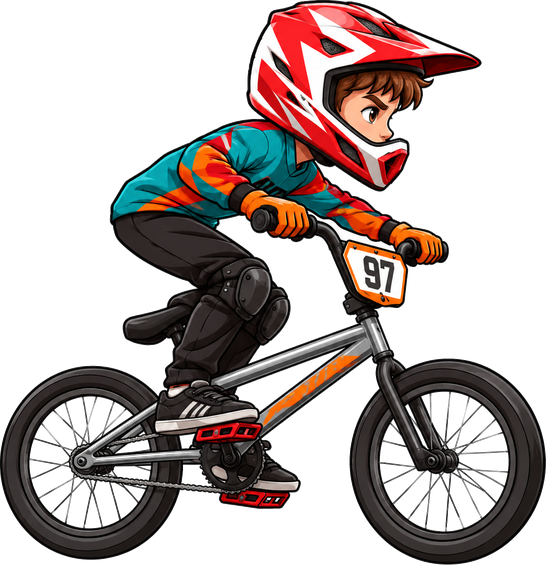
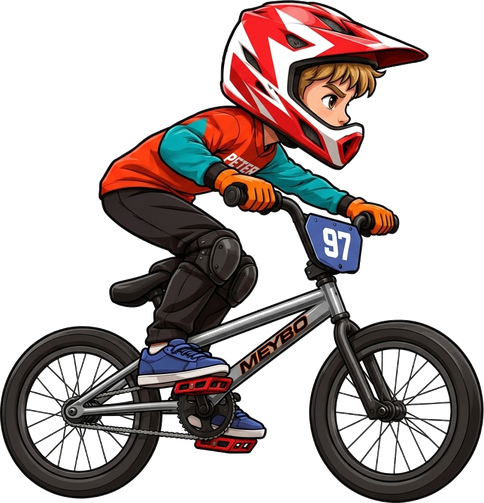
Add files via upload

diff --git a/index.html b/index.html
@@ -34,6 +34,9 @@
   .btn:active { transform: translateY(3px); box-shadow: 0 3px 0 #a83f12; }
   .btn.ghost { background: transparent; box-shadow: none; font-size: 16px; color: #bfeee9; text-decoration: underline; padding: 6px; }
   #calib { font-size: clamp(20px, 5.5vh, 30px); font-weight: bold; color: #ffe14d; min-height: 1.3em; }
+  #sens { font-size: 14px; color: #cfeee9; display: flex; gap: 8px; align-items: center; text-shadow: 0 2px 4px rgba(0,0,0,.6); }
+  #sens button { font: bold 14px Arial; color: #fff; background: rgba(255,255,255,.14); border: 2px solid rgba(255,255,255,.35); border-radius: 18px; padding: 5px 14px; }
+  #sens button.on { background: #ff6b2c; border-color: #fff; }
   #bar { width: min(420px, 70vw); height: 14px; background: #0c2c2b; border-radius: 9px; overflow: hidden; display: none; }
   #bar i { display: block; height: 100%; width: 50%; background: #ffe14d; }
 </style>
@@ -48,6 +51,7 @@
   <div id="bar"><i></i></div>
   <button class="btn" id="go">ПОЕХАЛИ!</button>
   <button class="btn ghost" id="skip">без наклона, только кнопки</button>
+  <div id="sens">Чувствительность наклона: <button data-s="0.7">мягко</button><button data-s="1" class="on">норм</button><button data-s="1.4">резко</button></div>
 </div>
 <script src="https://cdnjs.cloudflare.com/ajax/libs/phaser/3.80.1/phaser.min.js"></script>
 <script>
@@ -141,6 +145,7 @@ const Sfx = {
       s.connect(g); g.connect(c.destination); s.start();
     } catch (e) { /* без звука */ }
   },
+  click() { this.tone(760, 0.03, 'square', 0.035); },
   pedal(c) { this.tone(260 + c * 380, 0.05, 'triangle', 0.07); },
   land() { this.noise(0.12, 0.12); this.tone(110, 0.12, 'sine', 0.15, 60); },
   flip() { [520, 660, 780, 1040].forEach((f, i) => setTimeout(() => this.tone(f, 0.16, 'square', 0.06), i * 70)); },
@@ -153,7 +158,7 @@ const Sfx = {
 // ======================= НАКЛОН ТЕЛЕФОНА =======================
 // Крен вокруг оси экрана считаем по направлению силы тяжести; знак определяет калибровка («наклони вправо»).
 const Tilt = {
-  on: false, raw: 0, prev: null, smooth: undefined, sign: 1, base: 0,
+  on: false, raw: 0, prev: null, smooth: undefined, sign: 1, base: 0, sens: 1,
   handler(e) {
     const a = e.accelerationIncludingGravity;
     if (!a || a.x == null || a.y == null) return;
@@ -279,6 +284,7 @@ class RaceScene extends Phaser.Scene {
     this.load.image('ground', 'ground.png');
     this.load.image('wood', 'wood.jpg');
     this.load.image('conc', 'conc.jpg');
+    ['tires', 'log', 'sign', 'fence', 'bush', 'stump', 'rocks', 'flags'].forEach(n => this.load.image('prop_' + n, 'prop_' + n + '.png'));
   }
 
   create() {
@@ -293,6 +299,7 @@ class RaceScene extends Phaser.Scene {
     this.parts = [];
     this.buildBackground();
     this.buildTerrain();
+    this.buildProps();
     this.buildBike();
     this.buildHud();
 
@@ -316,11 +323,18 @@ class RaceScene extends Phaser.Scene {
   setupInput() {
     const brakeC = { x: W - 222, y: H - 62 }, fwdC = { x: 222, y: H - 62 };
     const hit = (x, y) => {
+      if (y < 118 && Math.abs(x - W / 2) < 70 && Tilt.on) return 'RC';       // тап по шкале наклона: выровнять ноль
       if (x >= W / 2) return Math.hypot(x - brakeC.x, y - brakeC.y) < 70 ? 'BR' : 'GAS';
       return Math.hypot(x - fwdC.x, y - fwdC.y) < 70 ? 'LF' : 'LB';
     };
-    this.input.on('pointerdown', p => { Sfx.init(); this.ctl.held[p.id] = hit(p.x, p.y); });
-    this.input.on('pointermove', p => { if (p.isDown && this.ctl.held[p.id] !== undefined) this.ctl.held[p.id] = hit(p.x, p.y); });
+    this.flash = { GAS: 0, BR: 0, LB: 0, LF: 0, RC: 0 };
+    const feel = n => { this.flash[n] = 1; Sfx.click(); try { if (navigator.vibrate) navigator.vibrate(n === 'GAS' ? 14 : 9); } catch (e) { /* нет вибрации */ } };
+    this.input.on('pointerdown', p => {
+      Sfx.init(); const n = hit(p.x, p.y);
+      if (n === 'RC') { this.neutral = Tilt.val(); feel('RC'); return; }
+      this.ctl.held[p.id] = n; feel(n);
+    });
+    this.input.on('pointermove', p => { if (p.isDown && this.ctl.held[p.id] !== undefined) { const n = hit(p.x, p.y); if (n !== 'RC' && n !== this.ctl.held[p.id]) { this.ctl.held[p.id] = n; feel(n); } } });
     this.input.on('pointerup', p => { delete this.ctl.held[p.id]; });
     this.input.on('pointerupoutside', p => { delete this.ctl.held[p.id]; });
     const kb = this.input.keyboard, set = (names, key, v) => names.forEach(n => kb.on((v ? 'keydown-' : 'keyup-') + n, () => { Sfx.init(); this.ctl[key] = v; }));
@@ -334,8 +348,8 @@ class RaceScene extends Phaser.Scene {
     if (c.lb || this.held('LB')) lean -= 1;
     if (c.lf || this.held('LF')) lean += 1;
     if (lean === 0 && Tilt.on) {
-      const eff = Tilt.val() - this.neutral, dz = 6;
-      if (Math.abs(eff) > dz) lean = Phaser.Math.Clamp((Math.abs(eff) - dz) / 20, 0, 1) * Math.sign(eff);
+      const eff = Tilt.val() - this.neutral, dz = 2.5, full = 16 / Tilt.sens;
+      if (Math.abs(eff) > dz) lean = Math.pow(Phaser.Math.Clamp((Math.abs(eff) - dz) / (full - dz), 0, 1), 1.15) * Math.sign(eff);
     }
     return { gas: !!(c.gas || this.held('GAS')), brake: !!(c.brake || this.held('BR')), lean };
   }
@@ -349,6 +363,11 @@ class RaceScene extends Phaser.Scene {
     // лёгкое затемнение к низу, чтобы земля и байк читались
     const sh = this.add.graphics().setScrollFactor(0).setDepth(-99);
     for (let i = 0; i < 12; i++) { sh.fillStyle(0x1a2a14, 0.012 * i); sh.fillRect(0, H * 0.55 + i * (H * 0.45 / 12), W, H * 0.45 / 12 + 1); }
+    // мягкая виньетка по краям экрана и тёплый свет сверху справа
+    const vg = this.add.graphics().setScrollFactor(0).setDepth(44);
+    for (let i = 0; i < 14; i++) { const k = i / 13; vg.lineStyle(30, 0x08140f, 0.016 + 0.022 * k); vg.strokeEllipse(W / 2, H / 2, W * (0.98 + k * 0.6), H * (1.0 + k * 0.7)); }
+    const sun = this.add.graphics().setScrollFactor(0).setDepth(43).setBlendMode(Phaser.BlendModes.ADD);
+    for (let r = 300; r > 40; r -= 26) { sun.fillStyle(0xffd9a0, 0.012); sun.fillCircle(W - 60, -30, r); }
   }
   updateBg() {
     const cam = this.cameras.main;
@@ -375,6 +394,23 @@ class RaceScene extends Phaser.Scene {
       g.fillStyle(c3, 1); g.fillCircle(cx + 3, cy + 6, r * 1.02); g.fillCircle(cx - h * 0.2 + 3, cy + h * 0.2 + 6, r * 0.75); g.fillCircle(cx + h * 0.2 + 3, cy + h * 0.2 + 6, r * 0.75);
       g.fillStyle(rnd() > 0.5 ? c1 : c2, 1); g.fillCircle(cx, cy, r); g.fillCircle(cx - h * 0.2, cy + h * 0.2, r * 0.75); g.fillCircle(cx + h * 0.2, cy + h * 0.2, r * 0.75);
       g.fillStyle(0xffffff, 0.12); g.fillCircle(cx - r * 0.3, cy - r * 0.35, r * 0.45);
+    }
+  }
+
+  // ---------- предметы вдоль трассы (нарисованные) ----------
+  buildProps() {
+    const H_ = { tires: 46, log: 36, sign: 80, fence: 46, bush: 70, stump: 40, rocks: 44, flags: 130 };
+    const kinds = ['bush', 'tires', 'log', 'fence', 'rocks', 'sign', 'stump', 'bush', 'flags', 'tires', 'fence', 'log'];
+    const bad = x => LEVEL.wood.concat(LEVEL.concrete).some(r => x > r[0] - 90 && x < r[1] + 90) || LEVEL.checkpoints.some(c => Math.abs(x - c) < 110) || Math.abs(x - LEVEL.startX) < 180 || (x > LEVEL.finishX - 120 && x < LEVEL.finishX + 280);
+    let sd = 7; const rnd = () => { sd = (sd * 16807) % 2147483647; return sd / 2147483647; };
+    let i = 0;
+    for (let x = 260; x < LEVEL.finishX + 600; x += 170 + rnd() * 210) {
+      if (bad(x)) continue;
+      const k = kinds[(i++ + ((rnd() * 4) | 0)) % kinds.length], t = this.textures.get('prop_' + k).getSourceImage();
+      const h = H_[k] * (0.85 + rnd() * 0.3), sc = h / t.height, y = groundY(x);
+      const im = this.add.image(x, y + 8, 'prop_' + k).setOrigin(0.5, 1).setScale(sc).setDepth(0.5);
+      if (k !== 'flags' && k !== 'sign') im.setRotation(slopeAt(x) * 0.7);
+      if (rnd() > 0.5) im.setFlipX(true);
     }
   }
 
@@ -441,10 +477,10 @@ class RaceScene extends Phaser.Scene {
     this.trail = this.add.graphics().setDepth(3);
     this.trailPts = [];
     // нарисованный байк: рама с гонщиком + два вращающихся колеса (ступицы совпадают с шарнирами физики)
-    const K = (2 * HALF_BASE) / 362.5, WS = (2 * WHEEL_R + 1.5) / 256;
+    const K = (2 * HALF_BASE) / 259, WS = (2 * WHEEL_R + 1.5) / 256;
     this.wheelR = this.add.image(0, 0, 'wheel').setScale(WS).setDepth(5);
     this.wheelF = this.add.image(0, 0, 'wheel').setScale(WS).setDepth(5);
-    this.riderI = this.add.image(-HALF_BASE, 0, 'rider').setOrigin(17 / 420, 461 / 509).setScale(K);
+    this.riderI = this.add.image(-HALF_BASE, 0, 'rider').setOrigin(9 / 307, 342 / 378).setScale(K);
     this.bikeC = this.add.container(0, 0, [this.riderI]).setDepth(5.5);
   }
   anchor() {
@@ -526,7 +562,7 @@ class RaceScene extends Phaser.Scene {
     if (this.state === 'done' || this.state === 'wait') return;
     const inp = this.readInput();
     if (this.state === 'ready') {
-      if (inp.gas) { this.state = 'run'; this.msg.setAlpha(0); } else return;
+      if (inp.gas) { this.state = 'run'; this.msg.setAlpha(0); this.neutral = Tilt.on ? Tilt.val() : 0; } else return;
     }
     const near = w => groundY(w.position.x) - w.position.y <= WHEEL_R / Math.cos(slopeAt(w.position.x)) + 4;
     const tR = near(wr), tF = near(wf), touching = tR || tF;
@@ -536,7 +572,6 @@ class RaceScene extends Phaser.Scene {
     const sp0 = Math.hypot(b.velocity.x, b.velocity.y);
 
     if (this.state === 'crash') { this.crashTimer -= STEP; if (this.crashTimer <= 0) this.respawn(); return; }
-    if (Tilt.on && !air) this.neutral += (Tilt.val() - this.neutral) * 0.02;
     this.boost *= 0.994; this.comboT = Math.max(0, this.comboT - STEP / 1000);
     if (this.comboT === 0) this.combo = 0;
 
@@ -544,7 +579,7 @@ class RaceScene extends Phaser.Scene {
       // ---- газ и тормоз ----
       const maxW = (BASE_CAP + this.boost) / WHEEL_R;
       if (inp.gas) {
-        if (wr.angularVelocity < maxW) Body.setAngularVelocity(wr, Math.min(maxW, wr.angularVelocity + 0.014));
+        if (wr.angularVelocity < maxW) Body.setAngularVelocity(wr, Math.min(maxW, wr.angularVelocity + 0.026));
         if (tR) this.setPitch(b.angularVelocity - 0.0012);
       }
       if (inp.brake) {
@@ -651,9 +686,9 @@ class RaceScene extends Phaser.Scene {
 
   // гонщик на байке, стоит на месте (для пьедестала): контейнер, начало координат внизу по центру
   riderSprite(x, y, sc) {
-    const WSZ = 198 / 256;
-    const w1 = this.add.image(-193, -99, 'wheel').setScale(WSZ), w2 = this.add.image(169.5, -99, 'wheel').setScale(WSZ);
-    const r = this.add.image(0, -560, 'rider').setOrigin(0.5, 0);
+    const WSZ = 141 / 256;
+    const w1 = this.add.image(-144.5, -70.5, 'wheel').setScale(WSZ), w2 = this.add.image(114.5, -70.5, 'wheel').setScale(WSZ);
+    const r = this.add.image(0, -412.5, 'rider').setOrigin(0.5, 0);
     return this.add.container(x, y, [w1, w2, r]).setScale(sc);
   }
 
@@ -676,7 +711,7 @@ class RaceScene extends Phaser.Scene {
     root.add([dim, panel, g]);
     blocks.forEach(b => root.add(this.add.text(b.x, base - b.h / 2 + 4, b.n, st(38, '#3a2a10')).setOrigin(0.5)));
     const rx = medal >= 0 ? blocks.find(k => k.m === medal).x : px + bw + 4, ry = medal >= 0 ? base - blocks.find(k => k.m === medal).h : base - 44;
-    root.add(this.riderSprite(rx, ry, 0.27));
+    root.add(this.riderSprite(rx, ry, 0.3));
     const tx = cx + 170;
     root.add(this.add.text(tx, cy - 168, 'ФИНИШ, МИРОН!', st(34, '#ffe14d')).setOrigin(0.5));
     if (medal >= 0) {
@@ -707,7 +742,7 @@ class RaceScene extends Phaser.Scene {
     const inp = this.readInput();
     this.crouchVis += ((inp.brake ? 1 : 0) - this.crouchVis) * 0.2;
     this.tiltVis += (inp.lean - this.tiltVis) * 0.3;
-    this.riderI.setScale(this.riderI.scaleX, (2 * HALF_BASE) / 362.5 * (1 - this.crouchVis * 0.05));
+    this.riderI.setScale(this.riderI.scaleX, (2 * HALF_BASE) / 259 * (1 - this.crouchVis * 0.05));
     this.bikeC.setPosition(a.x, a.y).setRotation(b.angle);
     this.updateBg();
     this.wheelR.setPosition(wr.position.x, wr.position.y).setRotation(wr.angle);
@@ -724,6 +759,8 @@ class RaceScene extends Phaser.Scene {
     this.trail.clear();
     this.trailPts = this.trailPts.filter(p => (p.l -= 0.05) > 0);
     this.trailPts.forEach(p => { this.trail.fillStyle(0xffffff, p.l * 0.25); this.trail.fillCircle(p.x, p.y, 4 + p.l * 6); });
+    this.dustN = (this.dustN || 0) + 1;
+    if (this.state === 'run' && sp > 3 && this.airTicks < 3 && this.dustN % 2 === 0) this.dust(wr.position.x - 4, wr.position.y + WHEEL_R - 3, -b.velocity.x * 0.22, 1);
     this.partG = this.partG || this.add.graphics().setDepth(8);
     this.partG.clear();
     this.parts = this.parts.filter(p => (p.life -= p.dec) > 0);
@@ -741,8 +778,11 @@ class RaceScene extends Phaser.Scene {
 
   drawUi(sp, inp) {
     const g = this.pedalG; g.clear();
-    const btn = (cx, cy, r, pressed, col, icon) => {
-      const k = pressed ? 0.93 : 1;
+    for (const key in this.flash) this.flash[key] *= 0.9;
+    const btn = (cx, cy, r, pressed, col, icon, name) => {
+      const k = pressed ? 0.9 : 1, fl = this.flash[name] || 0;
+      if (fl > 0.02) { g.lineStyle(6, 0xffffff, fl * 0.9); g.strokeCircle(cx, cy, r * (1.05 + (1 - fl) * 0.5)); }
+      if (pressed) { g.fillStyle(0xffffff, 0.16); g.fillCircle(cx, cy, r * 1.12); }
       g.fillStyle(0x000000, 0.18); g.fillCircle(cx, cy + 4, r * k);
       g.fillStyle(col, pressed ? 0.9 : 0.5); g.fillCircle(cx, cy, r * k);
       g.lineStyle(3, 0xffffff, pressed ? 0.95 : 0.5); g.strokeCircle(cx, cy, r * k);
@@ -763,20 +803,26 @@ class RaceScene extends Phaser.Scene {
       g.fillStyle(0x0e5a31, 1); g.fillRoundedRect(cx - r * 0.5, cy - r * 0.62, r, r * 1.24, 12);
       g.fillStyle(0xffffff, 0.95); g.fillTriangle(cx, cy - r * 0.42, cx - r * 0.3, cy + r * 0.02, cx + r * 0.3, cy + r * 0.02);
       g.fillRect(cx - r * 0.1, cy, r * 0.2, r * 0.36);
-    });
-    btn(W - 222, H - 62, 46, brOn, 0xc23b2b, bars);
-    btn(92, H - 86, 66, lbOn, 0x2a6fd0, (cx, cy, r) => rot(cx, cy, r, true));
-    btn(222, H - 62, 46, lfOn, 0x2a6fd0, (cx, cy, r) => rot(cx, cy, r, false));
+    }, 'GAS');
+    btn(W - 222, H - 62, 46, brOn, 0xc23b2b, bars, 'BR');
+    btn(92, H - 86, 66, lbOn, 0x2a6fd0, (cx, cy, r) => rot(cx, cy, r, true), 'LB');
+    btn(222, H - 62, 46, lfOn, 0x2a6fd0, (cx, cy, r) => rot(cx, cy, r, false), 'LF');
     if (!this.labels) {
       const t = (x, y, s) => this.add.text(x, y, s, { fontFamily: 'Arial', fontStyle: 'bold', fontSize: '15px', color: '#fff', stroke: '#000', strokeThickness: 3 }).setOrigin(0.5).setScrollFactor(0).setDepth(52);
       this.labels = [t(W - 92, H - 8, 'ГАЗ'), t(W - 222, H - 8, 'ТОРМОЗ'), t(92, H - 8, 'НАЗАД'), t(222, H - 8, 'ВПЕРЁД')];
     }
-    const wx = W / 2, wy = 62, gg = this.hudG; gg.clear();
-    gg.lineStyle(7, 0x000000, 0.35); gg.strokeCircle(wx, wy, 24);
-    gg.lineStyle(5, 0xffffff, 0.85); gg.strokeCircle(wx, wy, 24);
-    const ang = this.tiltVis * 0.9;
-    gg.lineStyle(5, 0xff6b2c, 1); gg.beginPath(); gg.moveTo(wx - Math.cos(ang) * 24, wy - Math.sin(ang) * 24); gg.lineTo(wx + Math.cos(ang) * 24, wy + Math.sin(ang) * 24); gg.strokePath();
-    gg.fillStyle(0xffffff, 1); gg.fillCircle(wx, wy, 5);
+    const wx = W / 2, wy = 66, gg = this.hudG; gg.clear();
+    if (Tilt.on) {
+      const fl = this.flash.RC || 0, lean = this.tiltVis, hot = Math.abs(lean) > 0.85;
+      gg.fillStyle(0x000000, 0.4); gg.fillCircle(wx, wy, 40);
+      if (fl > 0.02) { gg.lineStyle(6, 0xffffff, fl); gg.strokeCircle(wx, wy, 40 + (1 - fl) * 18); }
+      gg.lineStyle(4, 0xffffff, 0.5); gg.strokeCircle(wx, wy, 38);
+      gg.lineStyle(4, 0x7dff9a, 0.9); gg.beginPath(); gg.arc(wx, wy, 38, -Math.PI / 2 - 0.16, -Math.PI / 2 + 0.16, false); gg.strokePath();   // «ноль»
+      const ang = lean * 0.95, nx = Math.cos(ang), ny = Math.sin(ang);
+      gg.lineStyle(7, hot ? 0xff4d4d : 0xff9a3c, 1); gg.beginPath(); gg.moveTo(wx - nx * 30, wy - ny * 30); gg.lineTo(wx + nx * 30, wy + ny * 30); gg.strokePath();
+      gg.fillStyle(0xffffff, 1); gg.fillCircle(wx, wy, 6);
+      if (!this.tiltLbl) this.tiltLbl = this.add.text(wx, wy + 48, 'НАКЛОН  (тап: выровнять)', { fontFamily: 'Arial', fontStyle: 'bold', fontSize: '12px', color: '#fff', stroke: '#000', strokeThickness: 3 }).setOrigin(0.5).setScrollFactor(0).setDepth(52);
+    } else if (this.tiltLbl) this.tiltLbl.setVisible(false);
     const sg = this.speedG; sg.clear();
     const bx = 20, by = 90, bw = 170;
     sg.fillStyle(0x000000, 0.45); sg.fillRoundedRect(bx, by, bw, 14, 7);
@@ -803,6 +849,11 @@ new Phaser.Game({
     const tryBegin = () => { if (window.G && window.G.state === 'wait') window.G.begin(); else setTimeout(tryBegin, 100); };
     tryBegin();
   }
+  try { const v = parseFloat(localStorage.getItem('miron_sens')); if (v) Tilt.sens = v; } catch (e) { /* без памяти */ }
+  document.querySelectorAll('#sens button').forEach(b => {
+    if (parseFloat(b.dataset.s) === Tilt.sens) b.classList.add('on'); else b.classList.remove('on');
+    b.onclick = () => { Tilt.sens = parseFloat(b.dataset.s); try { localStorage.setItem('miron_sens', String(Tilt.sens)); } catch (e) { /* без памяти */ } document.querySelectorAll('#sens button').forEach(x => x.classList.toggle('on', x === b)); };
+  });
   skip.onclick = () => { Tilt.on = false; launch(); };
   go.onclick = async () => {
     Sfx.init();
@@ -815,9 +866,10 @@ new Phaser.Game({
     const iv = setInterval(() => {
       if (Tilt.smooth === undefined) { if (performance.now() - t0 > 2500) { clearInterval(iv); Tilt.on = false; calib.textContent = 'Датчик не отвечает, играем кнопками'; setTimeout(launch, 900); } return; }
       if (base === null) { if (performance.now() - t0 > 900) base = Tilt.smooth; return; }
+      if (performance.now() - t0 > 12000 && !done) { done = true; clearInterval(iv); Tilt.on = false; calib.textContent = 'Не вышло, играем кнопками'; setTimeout(launch, 900); return; }
       const d = Tilt.smooth - base;
-      bar.firstElementChild.style.width = (50 + Math.max(-45, Math.min(45, d)) / 45 * 50) + '%';
-      if (Math.abs(d) > 22 && !done) {
+      bar.firstElementChild.style.width = (50 + Math.max(-30, Math.min(30, d)) / 30 * 50) + '%';
+      if (Math.abs(d) > 14 && !done) {
         done = true; clearInterval(iv);
         Tilt.sign = d > 0 ? 1 : -1; Tilt.base = base; calib.textContent = 'Отлично! Наклон настроен';
         setTimeout(launch, 700);
